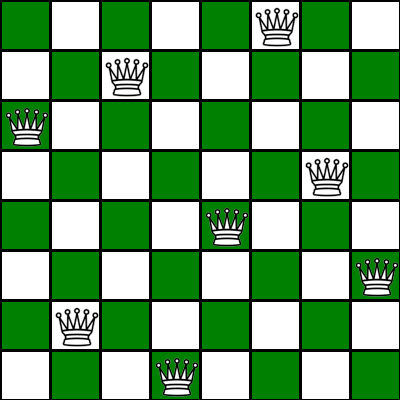
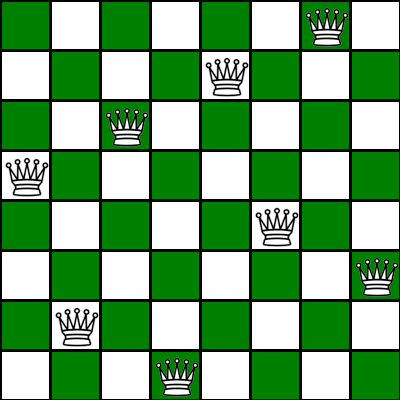
bugFix

diff --git a/nqueens.py b/nqueens.py
@@ -67,8 +67,7 @@ class NQueensSolver:
                     draw.rectangle(rect, fill="white")
 
                 if self.queen_in_cell(assignment, i, j):
-                    queen = queen.convert("RGBA")
-                    img.paste(queen, rect[0], queen.split()[3])
+                    img.paste(queen, rect[0], queen)
                                 
         img.save(file_name)
 
@@ -155,16 +154,6 @@ def main():
                 print("No solution")
             else:
                 nqueens_solver.save(assignment, output)
-                sol = []
-                for i in range(N):
-                    row = []
-                    for j in range(N):
-                        row.append(False)
-                    sol.append(row)
-                for var in assignment:
-                    sol[var.row][assignment[var]] = True
-                for row in sol:
-                    print(row)
                 
     else:
         sys.exit("Invalid Usage")
